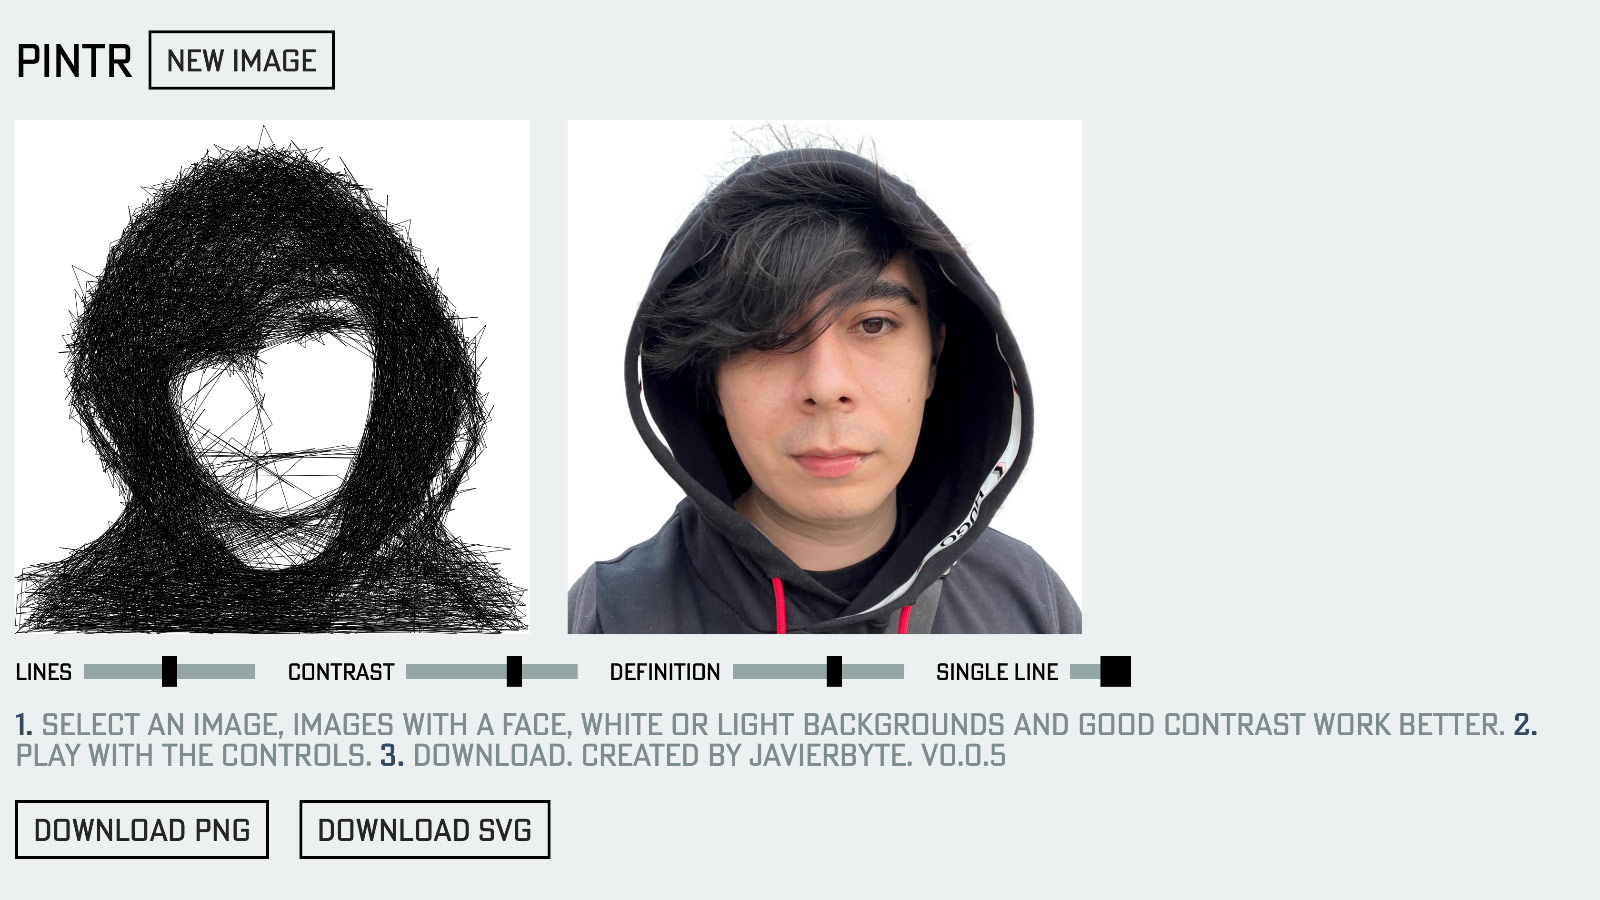
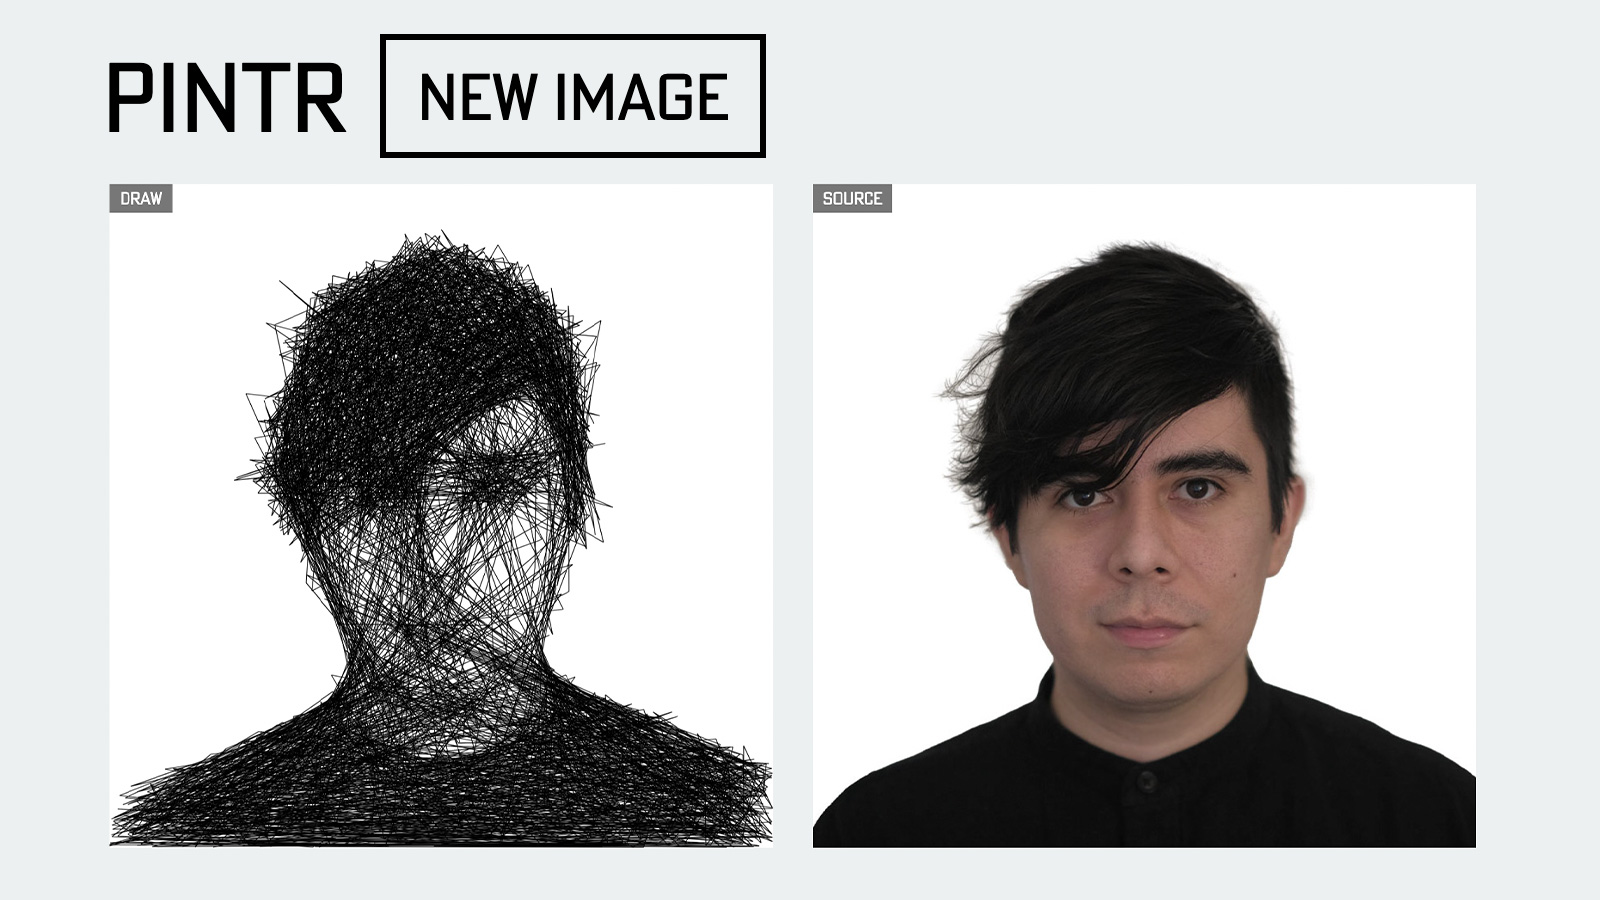
Updates

diff --git a/assets/index.91f747be.js b/assets/index.91f747be.js
@@ -1,0 +1,11 @@
+import{i as _,c as N}from"./vendor.2ac2f24a.js";const P=function(){const t=document.createElement("link").relList;if(t&&t.supports&&t.supports("modulepreload"))return;for(const o of document.querySelectorAll('link[rel="modulepreload"]'))a(o);new MutationObserver(o=>{for(const i of o)if(i.type==="childList")for(const r of i.addedNodes)r.tagName==="LINK"&&r.rel==="modulepreload"&&a(r)}).observe(document,{childList:!0,subtree:!0});function n(o){const i={};return o.integrity&&(i.integrity=o.integrity),o.referrerpolicy&&(i.referrerPolicy=o.referrerpolicy),o.crossorigin==="use-credentials"?i.credentials="include":o.crossorigin==="anonymous"?i.credentials="omit":i.credentials="same-origin",i}function a(o){if(o.ep)return;o.ep=!0;const i=n(o);fetch(o.href,i)}};P();const M=.1,R={r:.299+M,g:.587+M*-.5,b:.114+M*-.5};function G(e){let t=e.data,n=1/0,a=0,o=0;for(let r=0;r<t.length;r+=4){let c=t[r]*R.r+t[r+1]*R.g+t[r+2]*R.b;n=Math.min(n,c),a=Math.max(a,c),o+=c}o=Math.round(o/(t.length/4)),n+=32,a-=32;const i=255/(a-n);for(let r=0;r<t.length;r+=4){let c=t[r]*R.r+t[r+1]*R.g+t[r+2]*R.b;t[r]=Math.round(c*i)-n,t[r+1]=Math.round(c*i)-n,t[r+2]=Math.round(c*i)-n}return{canvasData:e,averageLightness:o}}function T(e,t,n){let a=0;const o=e[0],i=t[0]-e[0],r=e[1],c=t[1]-e[1],s=Math.max(Math.abs(i),Math.abs(c));for(let d=0;d<s;d++){const g=Math.round(o+i/s*d),h=Math.round(r+c/s*d);a+=n[g][h]}return Math.round(a/s)}function W(e,{strokeWidth:t}){return`<svg viewBox="0 0 1080 1080" xmlns="http://www.w3.org/2000/svg" stroke="black" stroke-width="${t}">
+${e.map(n=>`<line x1="${n[0][0]}" y1="${n[0][1]}" x2="${n[1][0]}" y2="${n[1][1]}"/>`).join(`
+`)}
+</svg>
+  `}function U(e,{strokeWidth:t}){return`<svg viewBox="0 0 1080 1080" xmlns="http://www.w3.org/2000/svg">
+  <polyline points="${e.map(n=>n[0].join(",")).join(" ")}" fill="none" stroke="black" stroke-width="${t}"/>
+</svg>
+  `}function F(e,t){return t.singleLine?U(e,t):W(e,t)}function D(e,{strokeWidth:t}){const n=.15,a=e.map(s=>s[0]),o=(s,d)=>{const g=d[0]-s[0],h=d[1]-s[1];return{length:Math.sqrt(Math.pow(g,2)+Math.pow(h,2)),angle:Math.atan2(h,g)}},i=(s,d,g,h)=>{const f=o(d||s,g||s),S=f.angle+(h?Math.PI:0),p=f.length*n,b=s[0]+Math.cos(S)*p,y=s[1]+Math.sin(S)*p;return[b,y]};return`<svg viewBox="0 0 1080 1080" xmlns="http://www.w3.org/2000/svg" stroke="black">
+    ${((s,d)=>`<path d="${s.reduce((h,w,u,f)=>u===0?`M ${w[0]},${w[1]}`:`${h} ${d(w,u,f)}`,"")}" fill="none" stroke="black" stroke-width="${t}" />`)(a,(s,d,g)=>{const h=i(g[d-1],g[d-2],s),w=i(s,g[d-1],g[d+1],!0);return`C ${h[0]},${h[1]} ${w[0]},${w[1]} ${s[0]},${s[1]}`})}
+  </svg>
+  `}function B(e,t){return Math.min(e,t)+Math.floor(Math.random()*Math.abs(e-t))}function j(e,t){let n;return function(){clearTimeout(n);let a=arguments;n=setTimeout(function(){e.apply(this,a)},t||1)}}function L(e,t,n={}){const{color:a="#0008",close:o=!1,shiftY:i=0}=n;e.beginPath(),e.lineWidth=23,e.moveTo(t[0]._x,t[0]._y+i);for(const r of t)e.lineTo(r._x,r._y+i);o&&e.lineTo(t[0]._x,t[0]._y+i),e.strokeStyle=a,e.stroke()}async function Y(e,t){await faceapi.nets.ssdMobilenetv1.loadFromUri("weights"),await faceapi.nets.faceLandmark68TinyNet.loadFromUri("weights");const n=await faceapi.detectSingleFace(e).withFaceLandmarks(!0);if(!n)return;const a=n.landmarks.getRightEye(),o=n.landmarks.getLeftEye(),i=n.landmarks.getJawOutline();L(t,a,{close:!0}),L(t,o,{close:!0}),L(t,i.slice(2,-2),{color:"#0004",shiftY:10})}function q(e){e.beginPath();function t(o,i,r={}){const{color:c="#000",width:s=1}=r;e.beginPath(),e.lineWidth=s,e.moveTo(o[0],o[1]),e.lineTo(i[0],i[1]),e.strokeStyle=c,e.stroke()}function n(o,i){e.moveTo(o[0],o[1]),e.lineTo(i[0],i[1])}function a(o={}){const{color:i="#000",width:r=1}=o;e.lineWidth=r,e.strokeStyle=i,e.stroke(),e.beginPath()}return{line:t,lineBuffer:n,stroke:a}}window.IMAGE_SRC="./test.jpg";window.CURRENT_DRAWING=new Date().getTime();window.COORDS=[];const m=1080,O={addColor:"#000",baseLineNumber:3600,faceApi:!1,precisionRange:2[32],singleLine:!0,strokeWidth:1.25,substractionColor:"rgba(255, 255, 255, 30%)",updateSampleRate:100},l=JSON.parse(JSON.stringify(O)),I=document.querySelector("canvas#src"),k=document.querySelector("canvas#draw");k.width=m;k.height=m;const E=k.getContext("2d"),$=q(E),v={matrix:[]};async function A(e){console.log(l);const t=new Date().getTime();window.CURRENT_DRAWING=new Date().getTime(),window.COORDS=[],E.fillStyle="#fff",E.fillRect(0,0,m,m),document.querySelector("#srcimg").style.backgroundImage=`url("${e}")`;const n=await _(e,{size:m,canvas:I}),{canvasData:a,averageLightness:o}=G(n);if(n.ctx.putImageData(a,0,0),l.faceApi)try{await Y(I,n.ctx)}catch{console.warn("no face")}document.querySelector(".loading").style.display="none";const i=n.ctx;v.matrix=N(i);const r=q(n.ctx);let c=[Math.floor(m)/2,Math.floor(m)/2];for(;v.matrix[c[0]][c[1]]===255*3;)c=[Math.floor(Math.random()*m),Math.floor(Math.random()*m)];function s(){let u=c,f=l.singleLine?0:l.precisionRange[0]*2;for(;f--;){let y=[Math.floor(Math.random()*m),Math.floor(Math.random()*m)];v.matrix[u[0]][u[1]]>v.matrix[y[0]][y[1]]&&(u=y)}let S=B(...l.precisionRange),p,b=255;for(;S--;){let y=[Math.floor(Math.random()*m),Math.floor(Math.random()*m)];const C=T(u,y,v.matrix);C<=b&&(b=C,p=y)}b=T(u,p,v.matrix),window.COORDS.push([u,p]),$.lineBuffer(u,p,{color:"#000"}),r.lineBuffer(u,p,{color:l.substractionColor}),c=p}let g=Math.floor(l.baseLineNumber/o*128);function h(u){return new Promise(f=>{const S=new Date().getTime();for(;new Date().getTime()<S+16&&g-- >0;){if(u!==window.CURRENT_DRAWING)return;g%l.updateSampleRate==0&&(r.stroke({color:l.substractionColor,width:l.strokeWidth*1.5}),v.matrix=N(i)),s()}$.stroke({color:l.addColor,width:l.strokeWidth*1}),window.requestAnimationFrame(f)})}async function w(u){for(;g>0&&u===window.CURRENT_DRAWING;)await h(u);const f=D(window.COORDS,l);l.singleLine&&(document.querySelector(".smooth-svg-container").innerHTML=f),console.log("Lines per second:",l.baseLineNumber/(new Date().getTime()-t)*1e3)}w(window.CURRENT_DRAWING)}function z(){if(this.files&&this.files[0]){const e=new FileReader;e.addEventListener("load",function(t){window.IMAGE_SRC=t.target.result,A(window.IMAGE_SRC)}),e.readAsDataURL(this.files[0])}}function x(){const e=document.querySelector("input[type='range']#lines").value,t=document.querySelector("input[type='range']#singleline").value,n=document.querySelector("input[type='range']#faceapi").value,a=document.querySelector("input[type='range']#contrast").value,o=document.querySelector("input[type='range']#definition").value,i=document.querySelector("input[type='range']#strokeWidth").value;l.baseLineNumber=O.baseLineNumber/50*e,l.substractionColor=`rgba(255, 255, 255, ${100-a}%)`,l.precisionRange=[o,o*2],l.singleLine=!!Number(t),l.faceApi=!!Number(n),l.strokeWidth=Number(i),l.faceApi&&(document.querySelector(".loading").style.display="block"),document.querySelector(".experimental--smooth-svg").style.display=l.singleLine?"block":"none",A(window.IMAGE_SRC)}x();document.querySelector("#inp").addEventListener("change",z);document.querySelector("#inputbutton").addEventListener("click",()=>{document.querySelector("#inp").click()});document.querySelectorAll("input[type='range']").forEach(e=>{e.addEventListener("change",j(x,256))});document.querySelector("#download").addEventListener("click",()=>{const e=document.createElement("a");e.download="PINTR.png",e.href=document.querySelector("canvas#draw").toDataURL(),e.click()});document.querySelector("#downloadsvg").addEventListener("click",()=>{const e=document.createElement("a");e.download="PINTR.svg";const t=F(window.COORDS,l),n=new Blob([t],{type:"image/svg+xml;charset=utf-8"}),a=URL.createObjectURL(n);e.href=a,e.click()});document.querySelector("#downloadSmoothSvg").addEventListener("click",()=>{const e=document.createElement("a");e.download="PINTR.svg";const t=D(window.COORDS,l),n=new Blob([t],{type:"image/svg+xml;charset=utf-8"}),a=URL.createObjectURL(n);e.href=a,e.click()});

diff --git a/assets/index.e8b6839c.css b/assets/index.e8b6839c.css
@@ -1,0 +1,1 @@
+*{position:relative}body,button{font-family:poster-gothic-atf,sans-serif;letter-spacing:-.25px;font-weight:400;font-style:normal;font-size:32px}h1{font-weight:400;font-size:48px;padding:0;line-height:50px;margin:0 0 0 16px}.flex{display:flex;align-items:center;flex-wrap:wrap}a{color:#34495e}a:hover{color:#000;background:#0001}button{appearance:none;-webkit-appearance:none;text-transform:uppercase;margin:16px;padding:8px 16px;border:3px solid #000;display:block;background:#ecf0f1;white-space:nowrap;color:#000}button:hover{cursor:pointer;background:#000;color:#fff}input[type=file]{display:none}label{font-size:24px}html{box-sizing:border-box}body{background:#ecf0f1;padding:16px 0 32px;margin:0}*,*:before,*:after{box-sizing:inherit}:root{--sizeh:540px}.inline{display:flex}.padding{padding:16px}.label{display:block;height:23px;line-height:18px;background:#0008;color:#fff;padding:2px 8px;font-size:14px;position:absolute;z-index:1}canvas{background:#fff;height:var(--sizeh);width:var(--sizeh);display:inline-block;vertical-align:middle}canvas#draw,.svg-container{width:var(--sizeh);height:var(--sizeh);background:#fff}.smooth-svg-container{width:var(--sizeh);height:var(--sizeh);background:#fff}#src,#srcimg{background-size:cover;background-position:center;display:inline-block;vertical-align:middle;height:var(--sizeh);width:var(--sizeh);display:none}canvas,#src,#srcimg{max-width:calc(100vw - 32px);max-height:calc(100vw - 32px)}#src,#srcimg{display:inline-block}canvas#src{display:none;height:0;width:0}.input-container{display:flex;flex-wrap:wrap}.input{display:flex;align-items:center;margin:8px 16px;text-transform:uppercase}input[type=range]{margin-left:12px;flex:1;width:180px;appearance:none;-webkit-appearance:none;background-color:#95a5a6;height:16px;border-radius:0}input[type=range]::-webkit-slider-thumb{appearance:none;-webkit-appearance:none;box-shadow:none;border-radius:0;height:32px;width:16px;background-color:#000;border:none}input[type=range]::-moz-range-thumb{appearance:none;box-shadow:none;border-radius:0;height:32px;width:16px;background-color:#000;border:none}input[type=range]::-webkit-slider-runnable-track{appearance:none}input[type=range]:focus{outline:none}input[type=range].toggle{width:64px}input[type=range].toggle::-webkit-slider-thumb{width:32px}input[type=range].toggle::-moz-range-thumb{width:32px}.instructions{margin:16px;text-transform:uppercase;line-height:1;color:#7f8c8d}.instructions strong{color:#34495e}.loading{padding:10vmin;cursor:default;font-size:48px;letter-spacing:-1px;position:fixed;top:0;left:0;width:100%;height:100%;display:flex;align-items:center;justify-content:center;text-align:center;background:#ecf0f1aa;color:#000;text-transform:uppercase}@media screen and (max-width: 1144px){.srcimage-container{position:absolute;bottom:0;right:0}.srcimage-container #srcimg{width:max(calc(100vw - 604px),92px);height:max(calc(100vw - 604px),92px)}}.experimental--smooth-svg{margin-top:32px}

diff --git a/index.html b/index.html
@@ -30,9 +30,9 @@
     <link rel="shortcut icon" href="/favicon.ico" type="image/x-icon" />
 
     
-    <script type="module" crossorigin src="https://javier.xyz/pintr/assets/index.d3981d5d.js"></script>
-    <link rel="modulepreload" href="https://javier.xyz/pintr/assets/vendor.d7bea3fb.js">
-    <link rel="stylesheet" href="https://javier.xyz/pintr/assets/index.c0e6d40c.css">
+    <script type="module" crossorigin src="https://javier.xyz/pintr/assets/index.91f747be.js"></script>
+    <link rel="modulepreload" href="https://javier.xyz/pintr/assets/vendor.2ac2f24a.js">
+    <link rel="stylesheet" href="https://javier.xyz/pintr/assets/index.e8b6839c.css">
   </head>
   <body>
     <div class="flex">
@@ -48,11 +48,6 @@
         <canvas id="draw"></canvas>
       </div>
 
-      <!--       <div class="padding">
-        <div class="label">Draw SVG</div>
-        <div class="svg-container"></div>
-      </div> -->
-
       <div class="srcimage-container padding">
         <div class="label">Source</div>
         <div id="srcimg"></div>
@@ -64,7 +59,7 @@
     <div class="input-container">
       <div class="input">
         <label for="lines">Lines</label>
-        <input type="range" id="lines" min="3" max="90" value="50" />
+        <input type="range" id="lines" min="3" max="100" value="50" />
       </div>
 
       <div class="input">
@@ -106,10 +101,10 @@
         <input
           type="range"
           id="strokeWidth"
-          step="0.5"
+          step="0.25"
           min="0.5"
           max="3"
-          value="1"
+          value="1.25"
         />
       </div>
     </div>
@@ -126,6 +121,17 @@
     <div class="flex">
       <button id="download">Download PNG</button>
       <button id="downloadsvg">Download SVG</button>
+    </div>
+
+    <div class="experimental--smooth-svg">
+      <div class="instructions">Other Exports:</div>
+
+      <div class="padding">
+        <div class="label">Smooth SVG</div>
+        <div class="smooth-svg-container"></div>
+      </div>
+
+      <button id="downloadSmoothSvg">Download SVG</button>
     </div>
 
     <div class="loading"><span>Loading...</span></div>

diff --git a/assets/vendor.2ac2f24a.js b/assets/vendor.2ac2f24a.js
@@ -1,0 +1,1 @@
+function l(h){const{data:a}=h.getImageData(0,0,h.canvas.width,h.canvas.height),{width:n,height:i}=h.canvas;let c=[];for(let t=0;t<i;t++)for(let e=0;e<n;e++)c[e]||(c[e]=[]),c[e][t]=Math.floor((a[t*n*4+e*4]+a[t*n*4+e*4+1]+a[t*n*4+e*4+2])/3);return c}function f(h,a={}){const{crop:n=!0,size:i}=a;return new Promise(c=>{const t=new window.Image;t.onload=function(){const o=a.canvas||document.createElement("canvas"),g=o.getContext("2d");let s=1;i&&(s=i/Math.max(t.width,t.height)),a.maxSize&&(t.width>a.maxSize||t.height>a.maxSize)&&(s=a.maxSize/Math.max(t.width,t.height));const d=Math.floor(t.width*s),m=Math.floor(t.height*s);if(n){o.width=i,o.height=i;const r=Math.min(t.width,t.height);g.drawImage(t,(t.width-r)/2,(t.height-r)/2,r,r,0,0,i,i)}else o.width=d,o.height=m,g.drawImage(t,0,0,d,m);const w=g.getImageData(0,0,g.canvas.width,g.canvas.height);w.ctx=g,c(w)},t.src=h})}export{l as c,f as i};
